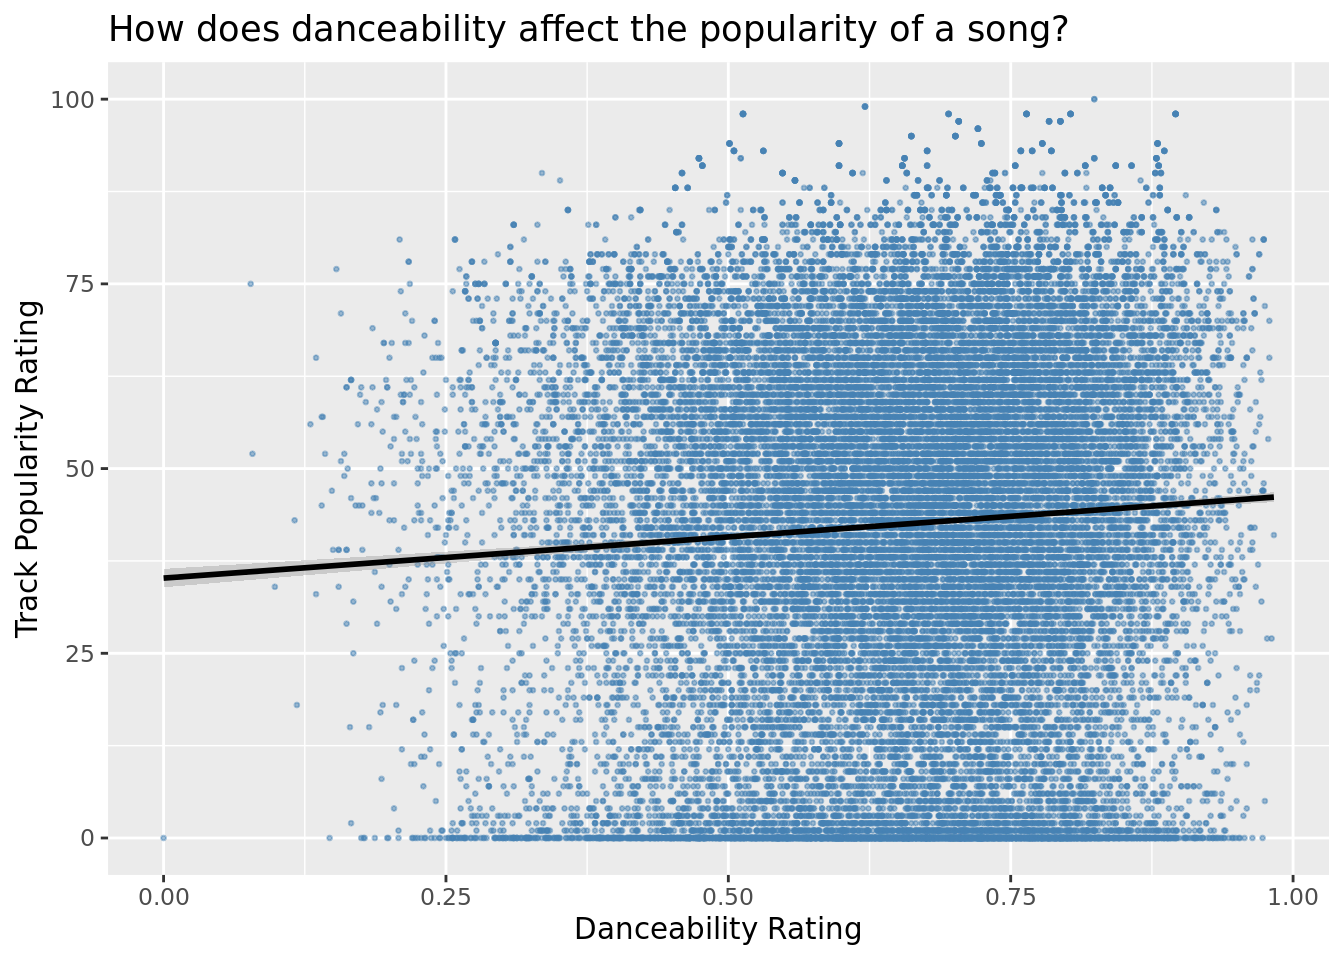
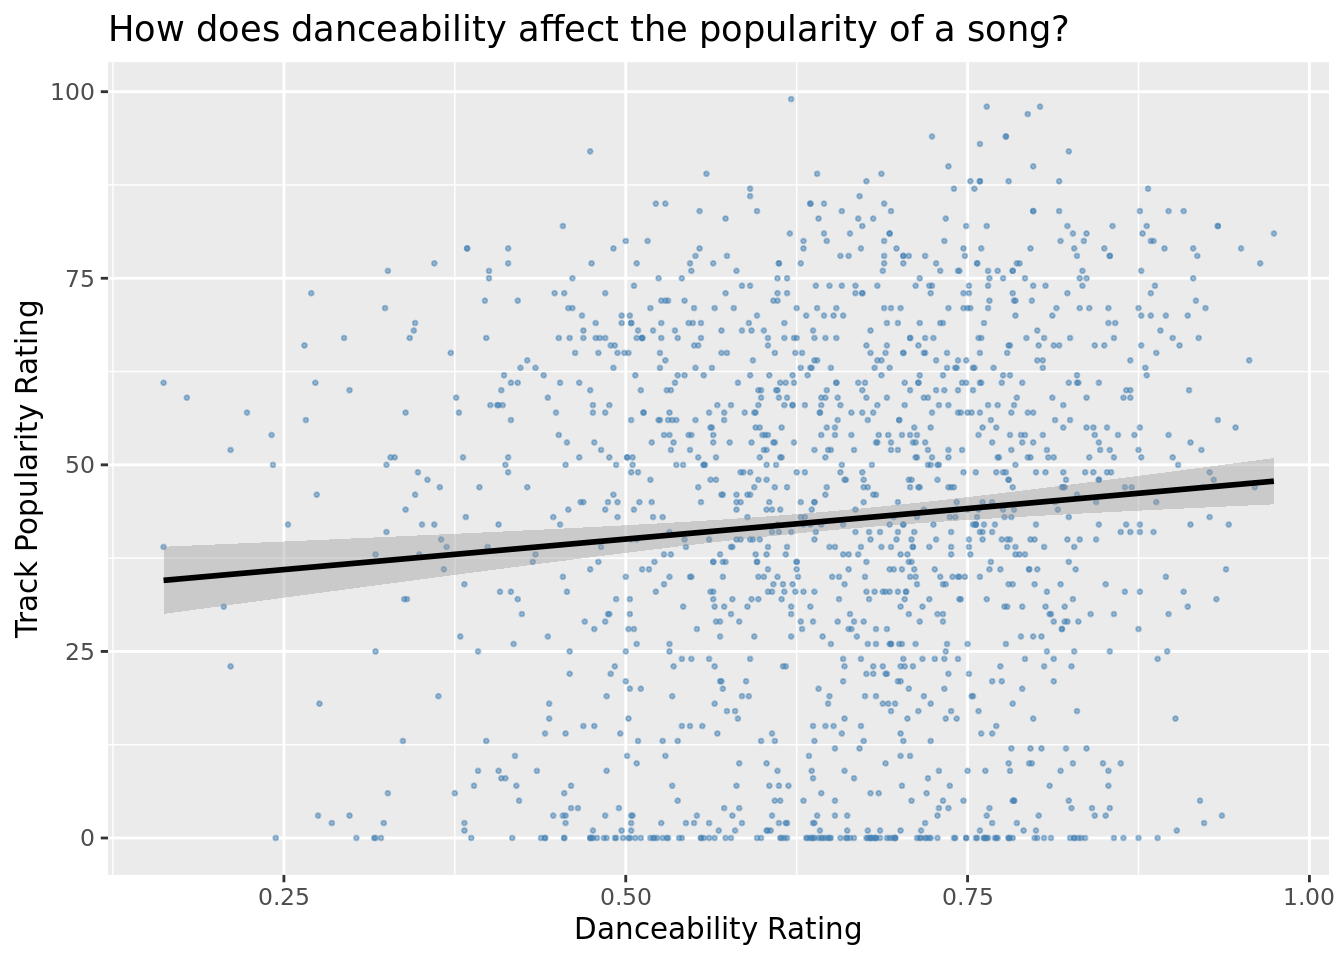
Added data tables

diff --git a/docs/report.html b/docs/report.html
@@ -253,22 +253,6 @@ code span.wa { color: #60a0b0; font-weight: bold; font-style: italic; } /* Warni
 <h2 class="anchored" data-anchor-id="results-and-analysis">Results and Analysis</h2>
 <p>First we will plot out general popularity of songs versus their adaptability score. This will allow us to visualize how dance-ability affects song’s popularity overall in the data set.</p>
 <div class="cell">
-<<<<<<< Updated upstream
-<div class="sourceCode cell-code" id="cb4"><pre class="sourceCode r code-with-copy"><code class="sourceCode r"><span id="cb4-1"><a href="#cb4-1" aria-hidden="true" tabindex="-1"></a>spotify_songs <span class="sc">|&gt;</span></span>
-<span id="cb4-2"><a href="#cb4-2" aria-hidden="true" tabindex="-1"></a>  <span class="fu">ggplot</span>(</span>
-<span id="cb4-3"><a href="#cb4-3" aria-hidden="true" tabindex="-1"></a>    <span class="fu">aes</span>(</span>
-<span id="cb4-4"><a href="#cb4-4" aria-hidden="true" tabindex="-1"></a>      <span class="at">x =</span> danceability,</span>
-<span id="cb4-5"><a href="#cb4-5" aria-hidden="true" tabindex="-1"></a>      <span class="at">y =</span> track_popularity</span>
-<span id="cb4-6"><a href="#cb4-6" aria-hidden="true" tabindex="-1"></a>    )</span>
-<span id="cb4-7"><a href="#cb4-7" aria-hidden="true" tabindex="-1"></a>  ) <span class="sc">+</span></span>
-<span id="cb4-8"><a href="#cb4-8" aria-hidden="true" tabindex="-1"></a>  <span class="fu">geom_point</span>(<span class="at">color =</span> <span class="st">"steelblue"</span>, <span class="at">alpha =</span> .<span class="dv">5</span>, <span class="at">size =</span> .<span class="dv">5</span>) <span class="sc">+</span></span>
-<span id="cb4-9"><a href="#cb4-9" aria-hidden="true" tabindex="-1"></a>  <span class="fu">geom_smooth</span>(<span class="at">method =</span> <span class="st">"lm"</span>, <span class="at">color =</span> <span class="st">"black"</span>) <span class="sc">+</span></span>
-<span id="cb4-10"><a href="#cb4-10" aria-hidden="true" tabindex="-1"></a>  <span class="fu">labs</span>(</span>
-<span id="cb4-11"><a href="#cb4-11" aria-hidden="true" tabindex="-1"></a>    <span class="at">x =</span> <span class="st">"Danceability Rating"</span>,</span>
-<span id="cb4-12"><a href="#cb4-12" aria-hidden="true" tabindex="-1"></a>    <span class="at">y =</span> <span class="st">"Track Popularity Rating"</span>,</span>
-<span id="cb4-13"><a href="#cb4-13" aria-hidden="true" tabindex="-1"></a>    <span class="at">title =</span> <span class="st">"How does danceability affect the popularity of a song?"</span></span>
-<span id="cb4-14"><a href="#cb4-14" aria-hidden="true" tabindex="-1"></a>  )</span></code><button title="Copy to Clipboard" class="code-copy-button"><i class="bi"></i></button></pre></div>
-=======
 <div class="sourceCode cell-code" id="cb6"><pre class="sourceCode r code-with-copy"><code class="sourceCode r"><span id="cb6-1"><a href="#cb6-1" aria-hidden="true" tabindex="-1"></a><span class="fu">set.seed</span>(<span class="dv">33</span>)</span>
 <span id="cb6-2"><a href="#cb6-2" aria-hidden="true" tabindex="-1"></a></span>
 <span id="cb6-3"><a href="#cb6-3" aria-hidden="true" tabindex="-1"></a>spotify_songs <span class="sc">|&gt;</span></span>
@@ -280,14 +264,13 @@ code span.wa { color: #60a0b0; font-weight: bold; font-style: italic; } /* Warni
 <span id="cb6-9"><a href="#cb6-9" aria-hidden="true" tabindex="-1"></a>      <span class="at">color =</span> playlist_genre</span>
 <span id="cb6-10"><a href="#cb6-10" aria-hidden="true" tabindex="-1"></a>    )</span>
 <span id="cb6-11"><a href="#cb6-11" aria-hidden="true" tabindex="-1"></a>  ) <span class="sc">+</span></span>
-<span id="cb6-12"><a href="#cb6-12" aria-hidden="true" tabindex="-1"></a>  <span class="fu">geom_point</span>(<span class="at">color =</span> <span class="st">"steelblue"</span>, <span class="at">alpha =</span> .<span class="dv">5</span>) <span class="sc">+</span></span>
+<span id="cb6-12"><a href="#cb6-12" aria-hidden="true" tabindex="-1"></a>  <span class="fu">geom_point</span>(<span class="at">color =</span> <span class="st">"steelblue"</span>, <span class="at">alpha =</span> .<span class="dv">5</span>, <span class="at">size =</span> .<span class="dv">5</span>) <span class="sc">+</span></span>
 <span id="cb6-13"><a href="#cb6-13" aria-hidden="true" tabindex="-1"></a>  <span class="fu">geom_smooth</span>(<span class="at">method =</span> <span class="st">"lm"</span>, <span class="at">color =</span> <span class="st">"black"</span>) <span class="sc">+</span></span>
 <span id="cb6-14"><a href="#cb6-14" aria-hidden="true" tabindex="-1"></a>  <span class="fu">labs</span>(</span>
 <span id="cb6-15"><a href="#cb6-15" aria-hidden="true" tabindex="-1"></a>    <span class="at">x =</span> <span class="st">"Danceability Rating"</span>,</span>
 <span id="cb6-16"><a href="#cb6-16" aria-hidden="true" tabindex="-1"></a>    <span class="at">y =</span> <span class="st">"Track Popularity Rating"</span>,</span>
 <span id="cb6-17"><a href="#cb6-17" aria-hidden="true" tabindex="-1"></a>    <span class="at">title =</span> <span class="st">"How does danceability affect the popularity of a song?"</span></span>
 <span id="cb6-18"><a href="#cb6-18" aria-hidden="true" tabindex="-1"></a>  )</span></code><button title="Copy to Clipboard" class="code-copy-button"><i class="bi"></i></button></pre></div>
->>>>>>> Stashed changes
 <div class="cell-output cell-output-stderr">
 <pre><code>`geom_smooth()` using formula = 'y ~ x'</code></pre>
 </div>
@@ -298,23 +281,6 @@ code span.wa { color: #60a0b0; font-weight: bold; font-style: italic; } /* Warni
 <p>From the above plot we see a very subtle correlation between the danceability rating and its popularity for this random sampling of 1000 songs. However, with so many data points on this plot danceability likely is not a great predictor for track popularity <strong>generally</strong>.</p>
 <p>Next, we’d like to see what this plot looks like if we facet it by the genre.</p>
 <div class="cell">
-<<<<<<< Updated upstream
-<div class="sourceCode cell-code" id="cb6"><pre class="sourceCode r code-with-copy"><code class="sourceCode r"><span id="cb6-1"><a href="#cb6-1" aria-hidden="true" tabindex="-1"></a>spotify_songs <span class="sc">|&gt;</span></span>
-<span id="cb6-2"><a href="#cb6-2" aria-hidden="true" tabindex="-1"></a>  <span class="fu">ggplot</span>(</span>
-<span id="cb6-3"><a href="#cb6-3" aria-hidden="true" tabindex="-1"></a>    <span class="fu">aes</span>(</span>
-<span id="cb6-4"><a href="#cb6-4" aria-hidden="true" tabindex="-1"></a>      <span class="at">x =</span> danceability,</span>
-<span id="cb6-5"><a href="#cb6-5" aria-hidden="true" tabindex="-1"></a>      <span class="at">y =</span> track_popularity</span>
-<span id="cb6-6"><a href="#cb6-6" aria-hidden="true" tabindex="-1"></a>    )</span>
-<span id="cb6-7"><a href="#cb6-7" aria-hidden="true" tabindex="-1"></a>  ) <span class="sc">+</span></span>
-<span id="cb6-8"><a href="#cb6-8" aria-hidden="true" tabindex="-1"></a>  <span class="fu">geom_point</span>(<span class="at">color =</span> <span class="st">"steelblue"</span>, <span class="at">size =</span> .<span class="dv">3</span>) <span class="sc">+</span></span>
-<span id="cb6-9"><a href="#cb6-9" aria-hidden="true" tabindex="-1"></a>  <span class="fu">geom_smooth</span>(<span class="at">method =</span> <span class="st">"lm"</span>, <span class="at">color =</span> <span class="st">"black"</span>) <span class="sc">+</span></span>
-<span id="cb6-10"><a href="#cb6-10" aria-hidden="true" tabindex="-1"></a>  <span class="fu">facet_wrap</span>(<span class="sc">~</span>playlist_genre) <span class="sc">+</span></span>
-<span id="cb6-11"><a href="#cb6-11" aria-hidden="true" tabindex="-1"></a>  <span class="fu">labs</span>(</span>
-<span id="cb6-12"><a href="#cb6-12" aria-hidden="true" tabindex="-1"></a>    <span class="at">x =</span> <span class="st">"Danceability Rating"</span>,</span>
-<span id="cb6-13"><a href="#cb6-13" aria-hidden="true" tabindex="-1"></a>    <span class="at">y =</span> <span class="st">"Track Popularity Rating"</span>,</span>
-<span id="cb6-14"><a href="#cb6-14" aria-hidden="true" tabindex="-1"></a>    <span class="at">title =</span> <span class="st">"Danceability vs popularity of songs in different genres"</span></span>
-<span id="cb6-15"><a href="#cb6-15" aria-hidden="true" tabindex="-1"></a>  )</span></code><button title="Copy to Clipboard" class="code-copy-button"><i class="bi"></i></button></pre></div>
-=======
 <div class="sourceCode cell-code" id="cb8"><pre class="sourceCode r code-with-copy"><code class="sourceCode r"><span id="cb8-1"><a href="#cb8-1" aria-hidden="true" tabindex="-1"></a><span class="fu">set.seed</span>(<span class="dv">33</span>)</span>
 <span id="cb8-2"><a href="#cb8-2" aria-hidden="true" tabindex="-1"></a></span>
 <span id="cb8-3"><a href="#cb8-3" aria-hidden="true" tabindex="-1"></a>spotify_songs <span class="sc">|&gt;</span> </span>
@@ -326,7 +292,7 @@ code span.wa { color: #60a0b0; font-weight: bold; font-style: italic; } /* Warni
 <span id="cb8-9"><a href="#cb8-9" aria-hidden="true" tabindex="-1"></a>      <span class="at">color =</span> playlist_genre</span>
 <span id="cb8-10"><a href="#cb8-10" aria-hidden="true" tabindex="-1"></a>    )</span>
 <span id="cb8-11"><a href="#cb8-11" aria-hidden="true" tabindex="-1"></a>  ) <span class="sc">+</span></span>
-<span id="cb8-12"><a href="#cb8-12" aria-hidden="true" tabindex="-1"></a>  <span class="fu">geom_point</span>(<span class="at">alpha =</span> .<span class="dv">5</span>) <span class="sc">+</span></span>
+<span id="cb8-12"><a href="#cb8-12" aria-hidden="true" tabindex="-1"></a>  <span class="fu">geom_point</span>(<span class="at">size =</span> .<span class="dv">3</span>) <span class="sc">+</span></span>
 <span id="cb8-13"><a href="#cb8-13" aria-hidden="true" tabindex="-1"></a>  <span class="fu">geom_smooth</span>(<span class="at">method =</span> <span class="st">"lm"</span>, <span class="at">color =</span> <span class="st">"black"</span>) <span class="sc">+</span></span>
 <span id="cb8-14"><a href="#cb8-14" aria-hidden="true" tabindex="-1"></a>  <span class="fu">facet_wrap</span>(<span class="sc">~</span>playlist_genre) <span class="sc">+</span></span>
 <span id="cb8-15"><a href="#cb8-15" aria-hidden="true" tabindex="-1"></a>  <span class="fu">labs</span>(</span>
@@ -335,7 +301,6 @@ code span.wa { color: #60a0b0; font-weight: bold; font-style: italic; } /* Warni
 <span id="cb8-18"><a href="#cb8-18" aria-hidden="true" tabindex="-1"></a>    <span class="at">title =</span> <span class="st">"Danceability vs popularity of songs in different genres"</span>, </span>
 <span id="cb8-19"><a href="#cb8-19" aria-hidden="true" tabindex="-1"></a>    <span class="at">color =</span> <span class="st">"Genre"</span></span>
 <span id="cb8-20"><a href="#cb8-20" aria-hidden="true" tabindex="-1"></a>  )</span></code><button title="Copy to Clipboard" class="code-copy-button"><i class="bi"></i></button></pre></div>
->>>>>>> Stashed changes
 <div class="cell-output cell-output-stderr">
 <pre><code>`geom_smooth()` using formula = 'y ~ x'</code></pre>
 </div>
@@ -411,17 +376,7 @@ code span.wa { color: #60a0b0; font-weight: bold; font-style: italic; } /* Warni
 <p><strong>Model Fit Assessments</strong></p>
 <p>Now we’d like to assess how well the regression model explains the observed data. We will do this by calculating adjusted R squared values.</p>
 <div class="cell">
-<<<<<<< Updated upstream
-<div class="sourceCode cell-code" id="cb14"><pre class="sourceCode r code-with-copy"><code class="sourceCode r"><span id="cb14-1"><a href="#cb14-1" aria-hidden="true" tabindex="-1"></a>general_dance <span class="sc">|&gt;</span></span>
-<span id="cb14-2"><a href="#cb14-2" aria-hidden="true" tabindex="-1"></a>  <span class="fu">glance</span>() <span class="sc">|&gt;</span></span>
-<span id="cb14-3"><a href="#cb14-3" aria-hidden="true" tabindex="-1"></a>  <span class="fu">pull</span>(adj.r.squared) </span></code><button title="Copy to Clipboard" class="code-copy-button"><i class="bi"></i></button></pre></div>
-<div class="cell-output cell-output-stdout">
-<pre><code>[1] 0.00416193</code></pre>
-</div>
-<div class="sourceCode cell-code" id="cb16"><pre class="sourceCode r code-with-copy"><code class="sourceCode r"><span id="cb16-1"><a href="#cb16-1" aria-hidden="true" tabindex="-1"></a>latin_dance <span class="sc">|&gt;</span></span>
-=======
 <div class="sourceCode cell-code" id="cb16"><pre class="sourceCode r code-with-copy"><code class="sourceCode r"><span id="cb16-1"><a href="#cb16-1" aria-hidden="true" tabindex="-1"></a>general_dance <span class="sc">|&gt;</span></span>
->>>>>>> Stashed changes
 <span id="cb16-2"><a href="#cb16-2" aria-hidden="true" tabindex="-1"></a>  <span class="fu">glance</span>() <span class="sc">|&gt;</span></span>
 <span id="cb16-3"><a href="#cb16-3" aria-hidden="true" tabindex="-1"></a>  <span class="fu">pull</span>(adj.r.squared) </span></code><button title="Copy to Clipboard" class="code-copy-button"><i class="bi"></i></button></pre></div>
 <div class="cell-output cell-output-stdout">
@@ -435,7 +390,7 @@ code span.wa { color: #60a0b0; font-weight: bold; font-style: italic; } /* Warni
 </div>
 <div class="sourceCode cell-code" id="cb20"><pre class="sourceCode r code-with-copy"><code class="sourceCode r"><span id="cb20-1"><a href="#cb20-1" aria-hidden="true" tabindex="-1"></a>rap_dance <span class="sc">|&gt;</span></span>
 <span id="cb20-2"><a href="#cb20-2" aria-hidden="true" tabindex="-1"></a>  <span class="fu">glance</span>() <span class="sc">|&gt;</span></span>
-<span id="cb20-3"><a href="#cb20-3" aria-hidden="true" tabindex="-1"></a>  <span class="fu">pull</span>(adj.r.squared)</span></code><button title="Copy to Clipboard" class="code-copy-button"><i class="bi"></i></button></pre></div>
+<span id="cb20-3"><a href="#cb20-3" aria-hidden="true" tabindex="-1"></a>  <span class="fu">pull</span>(adj.r.squared) </span></code><button title="Copy to Clipboard" class="code-copy-button"><i class="bi"></i></button></pre></div>
 <div class="cell-output cell-output-stdout">
 <pre><code>[1] 0.02070946</code></pre>
 </div>
@@ -443,52 +398,32 @@ code span.wa { color: #60a0b0; font-weight: bold; font-style: italic; } /* Warni
 <p>Based on the adjusted R squared values, danceability rating as an explanatory variable is not a good predictor of popularity rating in general and in the latin and rap genres. The adjusted R squared values between 0.14-4.2% reveals a very low variability in popularity is explained by the regression model.</p>
 <p>Now we’d like to assess how well the regression model explains the observed data using AIC and an ROC curve.</p>
 <div class="cell">
-<<<<<<< Updated upstream
-<div class="sourceCode cell-code" id="cb20"><pre class="sourceCode r code-with-copy"><code class="sourceCode r"><span id="cb20-1"><a href="#cb20-1" aria-hidden="true" tabindex="-1"></a><span class="co"># | label: AIC-1</span></span>
-<span id="cb20-2"><a href="#cb20-2" aria-hidden="true" tabindex="-1"></a></span>
-<span id="cb20-3"><a href="#cb20-3" aria-hidden="true" tabindex="-1"></a>general_dance <span class="sc">|&gt;</span></span>
-<span id="cb20-4"><a href="#cb20-4" aria-hidden="true" tabindex="-1"></a>  <span class="fu">glance</span>() <span class="sc">|&gt;</span></span>
-<span id="cb20-5"><a href="#cb20-5" aria-hidden="true" tabindex="-1"></a>  <span class="fu">pull</span>(AIC) <span class="sc">|&gt;</span></span>
-<span id="cb20-6"><a href="#cb20-6" aria-hidden="true" tabindex="-1"></a>  <span class="fu">tibble</span>()</span></code><button title="Copy to Clipboard" class="code-copy-button"><i class="bi"></i></button></pre></div>
-=======
 <div class="sourceCode cell-code" id="cb22"><pre class="sourceCode r code-with-copy"><code class="sourceCode r"><span id="cb22-1"><a href="#cb22-1" aria-hidden="true" tabindex="-1"></a><span class="co"># | label: AIC-1</span></span>
 <span id="cb22-2"><a href="#cb22-2" aria-hidden="true" tabindex="-1"></a></span>
 <span id="cb22-3"><a href="#cb22-3" aria-hidden="true" tabindex="-1"></a>general_dance <span class="sc">|&gt;</span></span>
 <span id="cb22-4"><a href="#cb22-4" aria-hidden="true" tabindex="-1"></a>  <span class="fu">glance</span>() <span class="sc">|&gt;</span></span>
-<span id="cb22-5"><a href="#cb22-5" aria-hidden="true" tabindex="-1"></a>  <span class="fu">pull</span>(AIC)</span></code><button title="Copy to Clipboard" class="code-copy-button"><i class="bi"></i></button></pre></div>
->>>>>>> Stashed changes
+<span id="cb22-5"><a href="#cb22-5" aria-hidden="true" tabindex="-1"></a>  <span class="fu">pull</span>(AIC) <span class="sc">|&gt;</span></span>
+<span id="cb22-6"><a href="#cb22-6" aria-hidden="true" tabindex="-1"></a>  <span class="fu">tibble</span>()</span></code><button title="Copy to Clipboard" class="code-copy-button"><i class="bi"></i></button></pre></div>
 <div class="cell-output cell-output-stdout">
 <pre><code># A tibble: 1 × 1
   `pull(glance(general_dance), AIC)`
                                &lt;dbl&gt;
 1                            304372.</code></pre>
 </div>
-<<<<<<< Updated upstream
-<div class="sourceCode cell-code" id="cb22"><pre class="sourceCode r code-with-copy"><code class="sourceCode r"><span id="cb22-1"><a href="#cb22-1" aria-hidden="true" tabindex="-1"></a>latin_dance <span class="sc">|&gt;</span></span>
-<span id="cb22-2"><a href="#cb22-2" aria-hidden="true" tabindex="-1"></a>  <span class="fu">glance</span>() <span class="sc">|&gt;</span></span>
-<span id="cb22-3"><a href="#cb22-3" aria-hidden="true" tabindex="-1"></a>  <span class="fu">pull</span>(AIC) <span class="sc">|&gt;</span></span>
-<span id="cb22-4"><a href="#cb22-4" aria-hidden="true" tabindex="-1"></a>  <span class="fu">tibble</span>()</span></code><button title="Copy to Clipboard" class="code-copy-button"><i class="bi"></i></button></pre></div>
-=======
 <div class="sourceCode cell-code" id="cb24"><pre class="sourceCode r code-with-copy"><code class="sourceCode r"><span id="cb24-1"><a href="#cb24-1" aria-hidden="true" tabindex="-1"></a>latin_dance <span class="sc">|&gt;</span></span>
 <span id="cb24-2"><a href="#cb24-2" aria-hidden="true" tabindex="-1"></a>  <span class="fu">glance</span>() <span class="sc">|&gt;</span></span>
-<span id="cb24-3"><a href="#cb24-3" aria-hidden="true" tabindex="-1"></a>  <span class="fu">pull</span>(AIC)</span></code><button title="Copy to Clipboard" class="code-copy-button"><i class="bi"></i></button></pre></div>
->>>>>>> Stashed changes
+<span id="cb24-3"><a href="#cb24-3" aria-hidden="true" tabindex="-1"></a>  <span class="fu">pull</span>(AIC) <span class="sc">|&gt;</span></span>
+<span id="cb24-4"><a href="#cb24-4" aria-hidden="true" tabindex="-1"></a>  <span class="fu">tibble</span>()</span></code><button title="Copy to Clipboard" class="code-copy-button"><i class="bi"></i></button></pre></div>
 <div class="cell-output cell-output-stdout">
 <pre><code># A tibble: 1 × 1
   `pull(glance(latin_dance), AIC)`
                              &lt;dbl&gt;
 1                           47986.</code></pre>
 </div>
-<<<<<<< Updated upstream
-<div class="sourceCode cell-code" id="cb24"><pre class="sourceCode r code-with-copy"><code class="sourceCode r"><span id="cb24-1"><a href="#cb24-1" aria-hidden="true" tabindex="-1"></a>rap_dance <span class="sc">|&gt;</span></span>
-<span id="cb24-2"><a href="#cb24-2" aria-hidden="true" tabindex="-1"></a>  <span class="fu">glance</span>() <span class="sc">|&gt;</span></span>
-<span id="cb24-3"><a href="#cb24-3" aria-hidden="true" tabindex="-1"></a>  <span class="fu">pull</span>(AIC) <span class="sc">|&gt;</span></span>
-<span id="cb24-4"><a href="#cb24-4" aria-hidden="true" tabindex="-1"></a>  <span class="fu">tibble</span>()</span></code><button title="Copy to Clipboard" class="code-copy-button"><i class="bi"></i></button></pre></div>
-=======
 <div class="sourceCode cell-code" id="cb26"><pre class="sourceCode r code-with-copy"><code class="sourceCode r"><span id="cb26-1"><a href="#cb26-1" aria-hidden="true" tabindex="-1"></a>rap_dance <span class="sc">|&gt;</span></span>
 <span id="cb26-2"><a href="#cb26-2" aria-hidden="true" tabindex="-1"></a>  <span class="fu">glance</span>() <span class="sc">|&gt;</span></span>
-<span id="cb26-3"><a href="#cb26-3" aria-hidden="true" tabindex="-1"></a>  <span class="fu">pull</span>(AIC)</span></code><button title="Copy to Clipboard" class="code-copy-button"><i class="bi"></i></button></pre></div>
->>>>>>> Stashed changes
+<span id="cb26-3"><a href="#cb26-3" aria-hidden="true" tabindex="-1"></a>  <span class="fu">pull</span>(AIC) <span class="sc">|&gt;</span></span>
+<span id="cb26-4"><a href="#cb26-4" aria-hidden="true" tabindex="-1"></a>  <span class="fu">tibble</span>()</span></code><button title="Copy to Clipboard" class="code-copy-button"><i class="bi"></i></button></pre></div>
 <div class="cell-output cell-output-stdout">
 <pre><code># A tibble: 1 × 1
   `pull(glance(rap_dance), AIC)`
